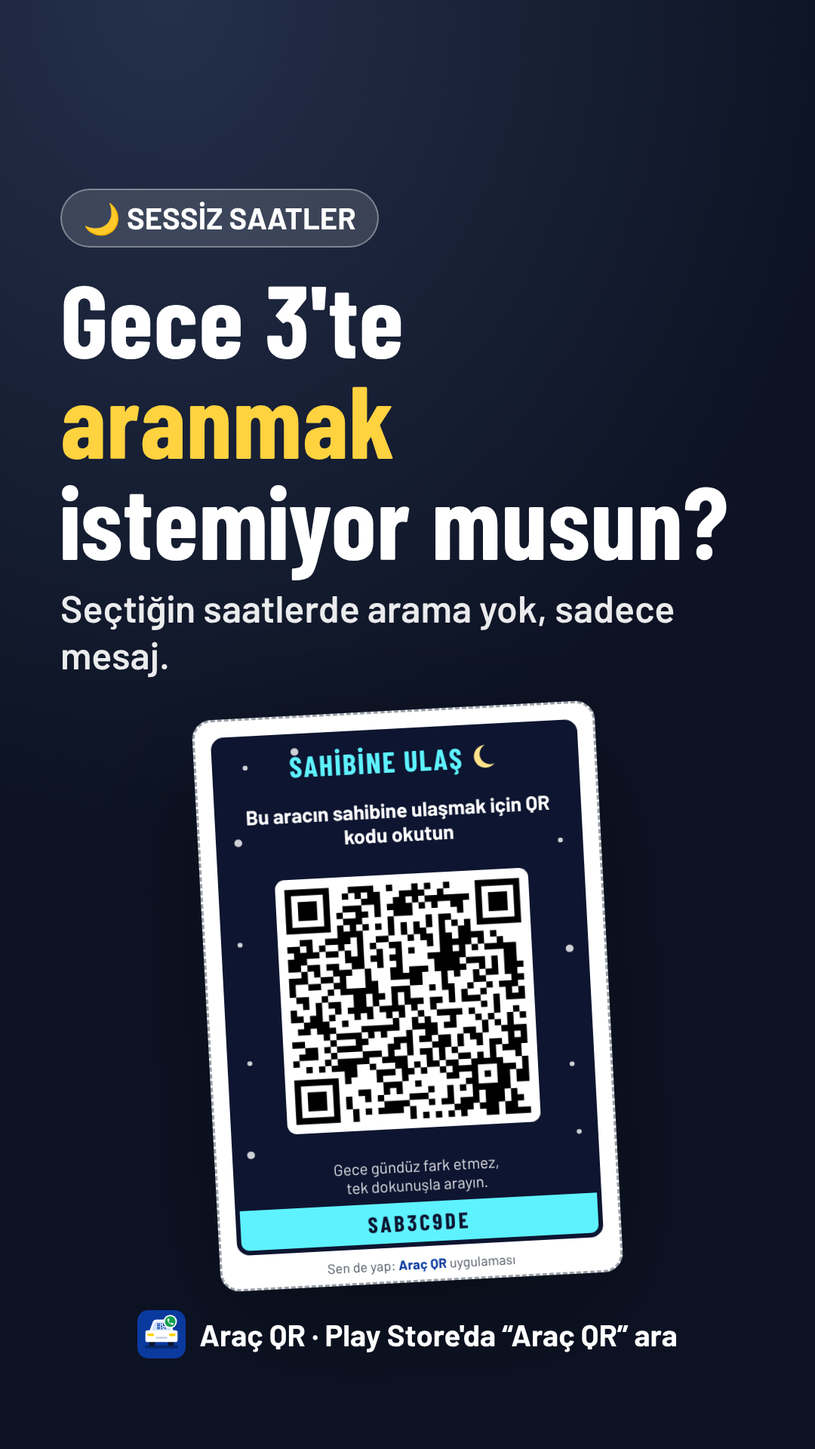
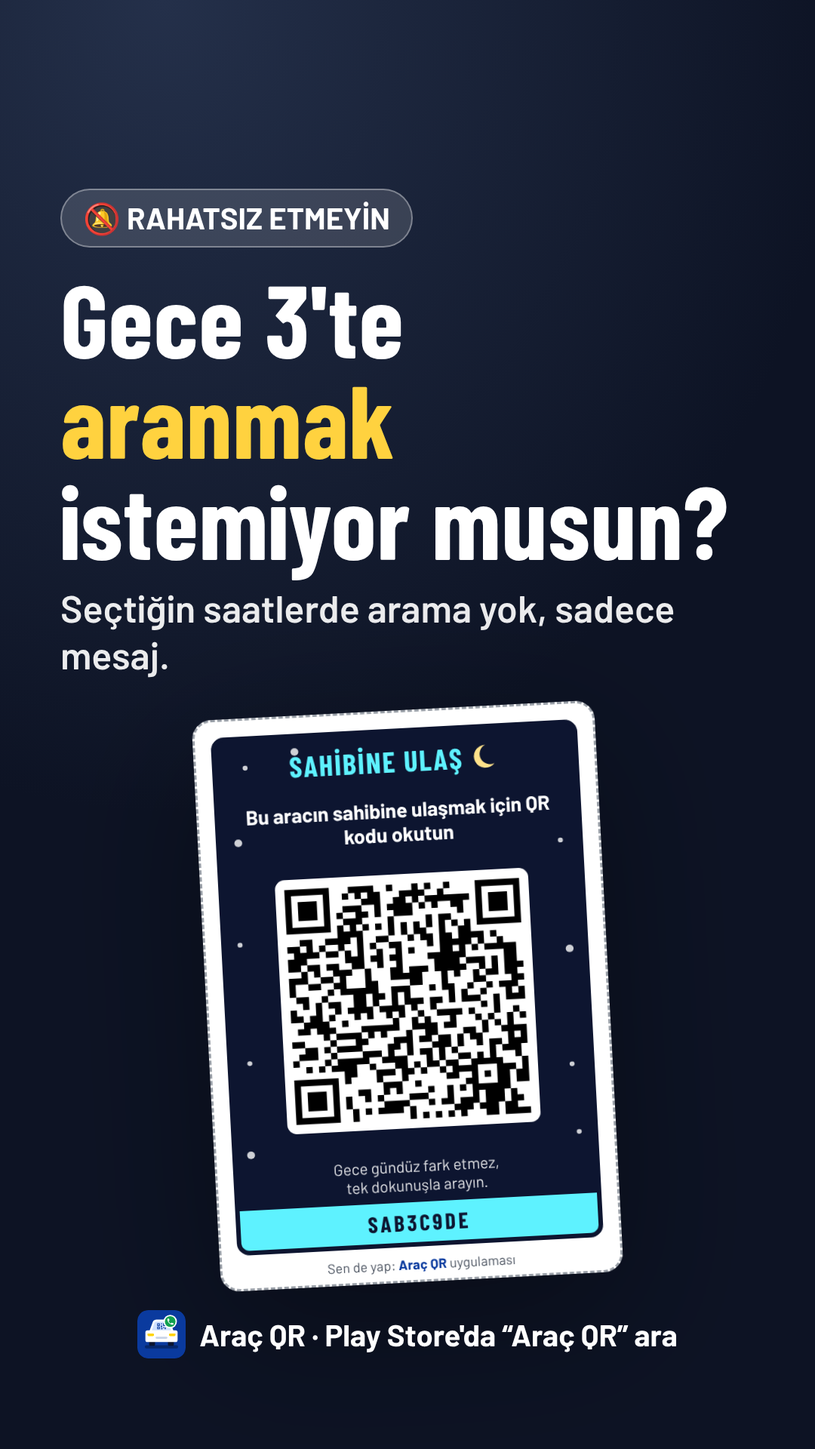
Instagram 1. ay içerik paketi: 6 yeni reels kapağı, 3 kaydırmalı gönderi (16 görsel), 7 hikâye şablonu; 4 haftalık takvim (pazarlama/icerik-takvimi.html) çekim senaryosu ve kopyalanabilir açıklamalarla; Rahatsız Etmeyin adı kapakta da güncellendi
Claude-Session: https://claude.ai/code/session_011ikTtd5WxzjBa6D7cnAviL

Changed region(s): [[0.0917, 0.125, 0.5194, 0.1875]]

diff --git a/pazarlama/icerik-takvimi.html b/pazarlama/icerik-takvimi.html
@@ -1,0 +1,169 @@
+<!doctype html>
+<html lang="tr">
+<head>
+<meta charset="utf-8">
+<meta name="viewport" content="width=device-width,initial-scale=1">
+<meta name="robots" content="noindex">
+<title>Instagram İçerik Takvimi</title>
+<link rel="icon" type="image/svg+xml" href="../app/logo.svg">
+<style>
+@font-face{font-family:"Barlow";font-weight:400;src:url(../app/fonts/barlow-latin-400-normal.woff2) format("woff2")}
+@font-face{font-family:"Barlow";font-weight:400;src:url(../app/fonts/barlow-latin-ext-400-normal.woff2) format("woff2");unicode-range:U+0100-02AF,U+1E00-1EFF}
+@font-face{font-family:"Barlow";font-weight:600;src:url(../app/fonts/barlow-latin-600-normal.woff2) format("woff2")}
+@font-face{font-family:"Barlow";font-weight:600;src:url(../app/fonts/barlow-latin-ext-600-normal.woff2) format("woff2");unicode-range:U+0100-02AF,U+1E00-1EFF}
+@font-face{font-family:"Barlow";font-weight:700;src:url(../app/fonts/barlow-latin-700-normal.woff2) format("woff2")}
+@font-face{font-family:"Barlow";font-weight:700;src:url(../app/fonts/barlow-latin-ext-700-normal.woff2) format("woff2");unicode-range:U+0100-02AF,U+1E00-1EFF}
+@font-face{font-family:"Barlow Condensed";font-weight:700;src:url(../app/fonts/barlow-condensed-latin-700-normal.woff2) format("woff2")}
+@font-face{font-family:"Barlow Condensed";font-weight:700;src:url(../app/fonts/barlow-condensed-latin-ext-700-normal.woff2) format("woff2");unicode-range:U+0100-02AF,U+1E00-1EFF}
+</style>
+<style>
+/* 4 haftalık Instagram takvimi: her paylaşımın görseli, çekim senaryosu ve kopyalanabilir açıklaması. Görseller pazarlama/kit.html → uret.js */
+:root{--bg:#eef1f6;--card:#fff;--fg:#121722;--muted:#566074;--line:#d6dbe5;--band:#0a3a9e;--accent:#f5c518;--ok:#0c7a43;
+  --display:"Barlow Condensed","Arial Narrow",system-ui,sans-serif;--body:"Barlow",system-ui,-apple-system,"Segoe UI",sans-serif}
+@media (prefers-color-scheme:dark){:root:not([data-theme="light"]){--bg:#0e131d;--card:#171e2b;--fg:#e8ecf3;--muted:#9aa4b8;--line:#2a3345;--band:#6f9bff;--ok:#4cc98a;color-scheme:dark}}
+:root[data-theme="dark"]{--bg:#0e131d;--card:#171e2b;--fg:#e8ecf3;--muted:#9aa4b8;--line:#2a3345;--band:#6f9bff;--ok:#4cc98a;color-scheme:dark}
+*{box-sizing:border-box}
+body{margin:0;background:var(--bg);color:var(--fg);font:16px/1.45 var(--body)}
+.wrap{max-width:900px;margin:0 auto;padding:24px 16px 60px;display:flex;flex-direction:column;gap:18px}
+a{color:var(--band)}
+h1{font-family:var(--display);font-size:clamp(32px,6vw,46px);line-height:1;margin:0}
+h2{font-family:var(--display);font-size:30px;margin:18px 0 0;display:flex;align-items:baseline;gap:10px;flex-wrap:wrap}
+h2 small{font-family:var(--body);font-size:15px;color:var(--muted);font-weight:600}
+.lead{color:var(--muted);margin:0}
+.rules{display:grid;grid-template-columns:repeat(auto-fit,minmax(200px,1fr));gap:10px}
+.rules div{background:var(--card);border:1px solid var(--line);border-radius:12px;padding:12px 14px;font-size:15px}
+.rules b{display:block;font-size:17px}
+.post{background:var(--card);border:1px solid var(--line);border-radius:16px;padding:14px;display:grid;grid-template-columns:150px 1fr;gap:16px}
+.thumbs{display:flex;flex-direction:column;gap:6px}
+.thumbs .row{display:flex;gap:4px;flex-wrap:wrap}
+.thumbs img{width:150px;border-radius:10px;display:block;border:1px solid var(--line)}
+.thumbs .row img{width:47px}
+.meta{display:flex;gap:8px;align-items:center;flex-wrap:wrap;font-size:14px;color:var(--muted);font-weight:600}
+.tag{border-radius:999px;padding:2px 10px;font-size:13px;font-weight:700;color:#fff;background:var(--band)}
+.tag.carousel{background:#c13584}.tag.story{background:#0c7a43}
+.post h3{margin:4px 0 6px;font-size:20px;line-height:1.2}
+.scene{margin:0 0 8px;font-size:15px}
+.scene b{color:var(--fg)}
+textarea{width:100%;font:15px/1.4 var(--body);border:1px solid var(--line);border-radius:10px;padding:10px;background:var(--bg);color:var(--fg);resize:vertical}
+.bar{display:flex;gap:8px;margin-top:6px;flex-wrap:wrap}
+button,.btn{font:700 14px var(--body);border:0;border-radius:8px;padding:8px 12px;background:var(--band);color:#fff;cursor:pointer;text-decoration:none}
+.btn.ghost{background:transparent;color:var(--band);border:1px solid var(--line)}
+.stories{display:grid;grid-template-columns:repeat(auto-fill,minmax(150px,1fr));gap:10px}
+.stories figure{margin:0;background:var(--card);border:1px solid var(--line);border-radius:12px;padding:8px;font-size:13px}
+.stories img{width:100%;border-radius:8px;display:block;margin-bottom:6px}
+@media (max-width:560px){.post{grid-template-columns:1fr}.thumbs img{width:100%;max-width:260px}.thumbs .row img{width:56px;max-width:none}}
+</style>
+</head>
+<body>
+<div class="wrap">
+  <header>
+    <p class="lead"><a href="index.html">← Büyüme planı</a></p>
+    <h1>Instagram içerik takvimi · 1. ay</h1>
+    <p class="lead">Büyüme planındaki ritim: haftada 3 reels (Pzt/Çar/Cum akşam 19–21), haftada 1 kaydırmalı gönderi (Cmt), her gün 1–3 hikâye. Her kartta görsel, çekim senaryosu ve kopyalanabilir açıklama var.</p>
+  </header>
+  <div class="rules">
+    <div><b>🎬 Reels</b>7–15 sn. İlk saniyede derdi göster, kapak görselini “Kapak” olarak seç. Popüler bir ses koy.</div>
+    <div><b>🖼 Kaydırmalı</b>Görselleri sırayla yükle (1080×1350). Kayıt ve paylaşım getirir.</div>
+    <div><b>📱 Hikâye</b>Kesikli alana anket / test / bağlantı çıkartmasını koy. Cevaplara DM'den teşekkür et.</div>
+    <div><b>💬 Yorumlar</b>İlk 1 saat her yoruma cevap ver; “bağlantı?” diyene DM'den gönder.</div>
+  </div>
+  <div id="cal"></div>
+</div>
+<script>
+const IMG = n => `instagram/${n}.png`;
+const TAGS = "#otopark #parksorunu #hatalıpark #araba #arabasticker #qrkod #araçqr #şoförlük";
+// Takvim 2 Kasım 2026 Pazartesi başlar; başka bir pazartesiden başlatmak için START'ı değiştirin
+const START = new Date(2026, 10, 2);
+const day = (w, d) => { const x = new Date(START); x.setDate(x.getDate() + w * 7 + d); return x.toLocaleDateString("tr-TR", {day: "numeric", month: "long", weekday: "long"}); };
+const R = "reels", C = "carousel";
+const WEEKS = [
+  {title: "1. hafta: derdi göster", posts: [
+    {d: 0, t: R, img: ["reels-1-hatali-park"], h: "Hatalı mı park ettin?",
+      scene: "Aceleyle park edip markete giriyorsun, arkanda biri sıkışmış → camdaki QR'ı okutuyor → telefonun çalıyor, 1 dakikada gelip aracı çekiyorsun. Ekranda: “Ceza yok, çekici yok, kızgın not yok.”",
+      cap: "Önün kapandığında kimi arayacağını bilemiyor musun? 😤\n\nAraç QR ile camına QR yapıştır; yolunu kapattığın kişi okutsun, seni tek dokunuşla arasın. Numaran camda yazmaz. 📲\n\n👉 Bağlantı profilde"},
+    {d: 2, t: R, img: ["reels-2-numarani-yazma"], h: "Camına numaranı yazma!",
+      scene: "Camda kâğıda yazılmış numara, yakın çekim → biri telefonla fotoğrafını çekiyor → “Bunu herkes görüyor, kaydediyor…” → kâğıdı söküp QR sticker yapıştırıyorsun.",
+      cap: "Camındaki numarayı otoparktaki herkes görüyor, kaydediyor. 📵\n\nAraç QR ile numaran görünmeden sana ulaşsınlar: okutan kişi seni arar ya da hazır mesaj atar.\n\n👉 Bağlantı profilde"},
+    {d: 4, t: R, img: ["reels-3-gece-3te"], h: "Gece 3'te aranmak istemiyor musun?",
+      scene: "Karanlık oda, gece 03:00, telefon çalıyor, uykulu yüz → uygulamada 🔕 Rahatsız Etmeyin'i açıp 23:00–07:00 seçiyorsun → “Bu saatlerde sadece mesaj gelir.”",
+      cap: "Gece 3'te aranmak istemiyorsan 🔕 Rahatsız Etmeyin'i aç.\n\nSeçtiğin saatlerde arama butonu çıkmaz; okutan kişi sana sadece SMS ya da WhatsApp mesajı atabilir. Acil durum mesajları da hazır.\n\n👉 Bağlantı profilde"},
+    {d: 5, t: C, img: ["gonderi-1-kapak", "gonderi-2-adim1", "gonderi-3-adim2", "gonderi-4-adim3", "gonderi-5-indir"], h: "3 adımda araç QR'ın hazır",
+      cap: "3 adımda araç QR'ın hazır 👇\n\n1⃣ Tasarımını seç (29 tasarım, komik sözler)\n2⃣ Numaranı gir: QR'da ve camda yazmaz\n3⃣ Yazdır ya da biz basıp gönderelim\n\nKaydet, sonra lazım olur 🔖\n👉 Bağlantı profilde"},
+  ], stories: ["hikaye-anket-onun-kapandi", "hikaye-baglanti", "hikaye-anket-tasarim"]},
+  {title: "2. hafta: nasıl çalışır?", posts: [
+    {d: 0, t: R, img: ["reels-6-not-birakma"], h: "Not bırakma devri bitti",
+      scene: "Yağmurda silecek altında ıslanmış, okunmaz bir not → biri QR'ı okutup “💡 Farlarınız açık” mesajını seçiyor → sahibinin telefonuna SMS düşüyor.",
+      cap: "Silecek altına not bırakma devri bitti. ☔\n\nQR'ı okut → ara ya da hazır mesaj at: “Farlarınız açık”, “Camınız açık”, “Önümü kapattınız”…\n\n👉 Bağlantı profilde"},
+    {d: 2, t: R, img: ["reels-9-sms-whatsapp"], h: "Aramak istemeyen mesaj atsın",
+      scene: "Ekran kaydı: QR okutuluyor → SMS / WhatsApp seçimi → “Önümü kapattınız”a dokunuluyor → mesaj hazır, Gönder. 7 saniye, hızlandırılmış.",
+      cap: "Herkes aramayı sevmez. 🙈\n\nQR'ı okutan kişi SMS ya da WhatsApp seçer, 6 hazır mesajdan birine dokunur, gönderir. Uygulama indirmesine gerek yok.\n\n👉 Bağlantı profilde"},
+    {d: 4, t: R, img: ["reels-4-ucretsiz-yap"], h: "Kendin yap, evde yazdır",
+      scene: "Ekran kaydı: tasarımları yana kaydırma → söz seçme → yazıcıdan çıkış → makasla kesme → cama yapıştırma. Hızlandırılmış, müzikli.",
+      cap: "Kendi araç QR'ını 1 dakikada yap 🎨\n\n29 tasarım, komik sözler, istediğin ölçü. Evde yazdır ya da su geçirmez vinil sticker'ını biz basıp gönderelim.\n\n👉 Bağlantı profilde"},
+    {d: 5, t: C, img: ["gonderi-a1-kapak", "gonderi-a2-ara", "gonderi-a3-mesaj", "gonderi-a4-rahatsiz", "gonderi-a5-son"], h: "QR'ı okutan kişi ne görür?",
+      cap: "QR'ı okutan kişi ne görür? 👀 Kaydır →\n\n1⃣ “Araç sahibini ara” butonu: numaran ekranda yazmaz\n2⃣ SMS ya da WhatsApp ile 6 hazır mesaj\n3⃣ Rahatsız Etmeyin saatlerinde sadece mesaj\n\nUygulama indirmesine gerek yok, kamerayla okutması yeter.\n👉 Bağlantı profilde"},
+  ], stories: ["hikaye-test-numara", "hikaye-hazir-qr", "hikaye-yorum"]},
+  {title: "3. hafta: yeni özellikler", posts: [
+    {d: 0, t: R, img: ["reels-7-pin-unuttum"], h: "PIN'ini mi unuttun?",
+      scene: "“PIN neydi?” diye kafa kaşıyan biri → uygulamada Profilim'e e-posta yazıyor → telefonuna “QR bilgileriniz” e-postası düşüyor → rahatlamış yüz.",
+      cap: "PIN'ini mi unuttun? Telefonun mu değişti? 🔑\n\nProfilim'e e-postanı ekle: QR kodun, PIN'in ve geri yükleme kodun e-postana gelsin. Unutursan “PIN'imi unuttum” de, yeniden gönderelim.\n\n👉 Bağlantı profilde"},
+    {d: 2, t: R, img: ["reels-8-hazir-qr"], h: "Yazıcıyla uğraşma",
+      scene: "Sıkışan yazıcı, kâğıt buruşuyor 😩 → kesme: kapıya kargo geliyor → zarftan Plaka QR sticker ve PIN kartı çıkıyor → cama yapıştırma.",
+      cap: "Yazıcıyla uğraşmak istemiyor musun? 📦\n\nSu geçirmez Plaka QR sticker + PIN kartı kapına gelsin: 200 TL, kargo dahil. Gelince QR'ı okut, numaranı ve PIN'i gir, bitti.\n\n👉 Talep için: arac.bulqr.com.tr/?talep"},
+    {d: 4, t: R, img: ["reels-10-turist"], h: "Turist de okutabilir",
+      scene: "Yabancı bir turist QR'ı okutuyor → sayfa kendi dilinde (English / العربية / Русский) açılıyor → hazır mesaj gönderiyor → sana Türkçe geliyor.",
+      cap: "Yolunu kapattığın kişi turist mi? Sorun değil. 🌍\n\nQR'ı okutan kişinin sayfası telefonunun diline göre Türkçe, İngilizce, Arapça ya da Rusça açılır; mesaj sana Türkçe gelir.\n\n👉 Bağlantı profilde"},
+    {d: 5, t: C, img: ["gonderi-b1-kapak", "gonderi-b2", "gonderi-b3", "gonderi-b4", "gonderi-b5", "gonderi-b6-cozum"], h: "Camına numara yazmanın 4 riski",
+      cap: "Camına numara yazmanın 4 riski ⚠ Kaydır →\n\n1⃣ Herkes kaydeder\n2⃣ Reklam ve dolandırıcı aramalar\n3⃣ Gece 3'te çalar\n4⃣ Numara değişince yeniden yaz\n\nÇözüm: numara yok, QR var. Arabası olan arkadaşına gönder 📤\n👉 Bağlantı profilde"},
+  ], stories: ["hikaye-pin-yeni", "hikaye-tasma-qr", "hikaye-anket-onun-kapandi"]},
+  {title: "4. hafta: güven ve sosyal kanıt", posts: [
+    {d: 0, t: R, img: ["reels-5-derbi-gunu"], h: "Derbi günü park ettim",
+      scene: "Bu haftayı derbi haftasına denk getirin. Stadyum çevresi kalabalık, araçlarda takım renklerinde sticker'lar → “Renklerini seç, maçı kaçırma, yolunu kapatma.” (Kulüp adı ve logosu kullanmayın.)",
+      cap: "Derbi günü park ettim 😅⚽\n\nTakım renklerinde QR sticker'ını seç; maç çıkışı yolunu kapattığın kişi seni tek dokunuşla arasın.\n\n👉 Bağlantı profilde"},
+    {d: 2, t: R, img: ["reels-11-qr-kapat"], h: "Aracını mı sattın?",
+      scene: "Anahtar teslim sahnesi, “Hayırlı olsun!” → uygulamada “QR açık” anahtarını kapatıyorsun → okutulunca “Bu QR şu an kullanılmıyor” ekranı.",
+      cap: "Aracını sattın, sticker camda kaldı? 🔒\n\nQR'ı uygulamadan tek dokunuşla kapat: okutan kişi numarana ulaşamaz. İstersen kalıcı olarak sil.\n\n👉 Bağlantı profilde"},
+    {d: 4, t: R, img: ["reels-12-ilk-okutma"], h: "QR'ın ilk kez okutuldu!",
+      scene: "Kahve içerken telefona bildirim: “🎉 QR'ınız ilk kez okutuldu” → uygulamada okutma sayacı → konfeti.",
+      cap: "QR'ın ilk kez okutulunca haber verelim 🎉\n\nUygulamada kaç kez okutulduğunu gör; okutan kişinin konumu ya da numarası kaydedilmez.\n\n👉 Bağlantı profilde"},
+    {d: 5, t: C, img: ["gonderi-c1-kapak", "gonderi-c2", "gonderi-c3", "gonderi-c4", "gonderi-c5"], h: "En çok sorulan 4 soru",
+      cap: "En çok sorulan 4 soru 🤔 Kaydır →\n\n• Numaram görünür mü?\n• Numaram değişirse?\n• PIN'imi unutursam?\n• Aracımı satarsam?\n\nBaşka sorun varsa yorumlara yaz, cevaplayalım 👇\n👉 Bağlantı profilde"},
+  ], stories: ["hikaye-hazir-qr", "hikaye-yorum", "hikaye-tasma-qr"]},
+];
+const STORY = {
+  "hikaye-anket-onun-kapandi": "Anket çıkartması: EVET 😡 / HAYIR 😇. Ertesi gün sonucu paylaş.",
+  "hikaye-baglanti": "Bağlantı çıkartması: arac.bulqr.com.tr",
+  "hikaye-anket-tasarim": "Anket: A / B. Kazanan tasarımı haftanın tasarımı yap.",
+  "hikaye-test-numara": "Test çıkartması, doğru cevap: Hayır.",
+  "hikaye-hazir-qr": "Bağlantı: arac.bulqr.com.tr/?talep",
+  "hikaye-yorum": "Gelen yorum / cama yapıştırılmış sticker fotoğrafı (izin alarak).",
+  "hikaye-pin-yeni": "Bağlantı çıkartması: arac.bulqr.com.tr",
+  "hikaye-tasma-qr": "Bağlantı: tasma.bulqr.com.tr. Kardeş ürün tanıtımı.",
+};
+const esc = s => String(s).replace(/[&<>"]/g, c => ({"&": "&amp;", "<": "&lt;", ">": "&gt;", '"': "&quot;"}[c]));
+document.getElementById("cal").innerHTML = WEEKS.map((w, wi) => `
+  <h2>${esc(w.title)} <small>${day(wi, 0)} – ${day(wi, 6)}</small></h2>
+  ${w.posts.map((p, pi) => { const id = `c${wi}${pi}`, text = p.cap + "\n\n" + TAGS; return `
+    <div class="post">
+      <div class="thumbs"><a href="${IMG(p.img[0])}" target="_blank"><img src="${IMG(p.img[0])}" alt="" loading="lazy"></a>
+        ${p.img.length > 1 ? `<div class="row">${p.img.slice(1).map(n => `<a href="${IMG(n)}" target="_blank"><img src="${IMG(n)}" alt="" loading="lazy"></a>`).join("")}</div>` : ""}</div>
+      <div>
+        <div class="meta"><span class="tag ${p.t}">${p.t === R ? "🎬 Reels" : `🖼 Kaydırmalı · ${p.img.length} görsel`}</span>${day(wi, p.d)} · 19:00–21:00</div>
+        <h3>${esc(p.h)}</h3>
+        ${p.scene ? `<p class="scene"><b>Çekim:</b> ${esc(p.scene)}</p>` : ""}
+        <textarea id="${id}" rows="7" readonly>${esc(text)}</textarea>
+        <div class="bar"><button type="button" data-copy="${id}">Açıklamayı kopyala</button>
+          ${p.img.map((n, i) => `<a class="btn ghost" href="${IMG(n)}" download>${p.img.length > 1 ? i + 1 : "Görseli indir"}</a>`).join("")}</div>
+      </div>
+    </div>`; }).join("")}
+  <div class="stories">${w.stories.map(n => `<figure><a href="${IMG(n)}" target="_blank"><img src="${IMG(n)}" alt="" loading="lazy"></a>
+    <span class="tag story">📱 Hikâye</span> ${esc(STORY[n] || "")}</figure>`).join("")}</div>`).join("");
+document.addEventListener("click", async ev => {
+  const b = ev.target.closest("[data-copy]"); if (!b) return;
+  const ta = document.getElementById(b.dataset.copy);
+  try { await navigator.clipboard.writeText(ta.value); } catch (e) { ta.select(); document.execCommand("copy"); }
+  b.textContent = "Kopyalandı ✓"; setTimeout(() => { b.textContent = "Açıklamayı kopyala"; }, 1500);
+});
+</script>
+</body>
+</html>

diff --git a/pazarlama/kit.html b/pazarlama/kit.html
@@ -38,6 +38,17 @@ body{margin:0;background:#888;display:flex;flex-wrap:wrap;gap:40px;padding:40px;
 .hl .ring{width:640px;height:640px;border-radius:50%;background:#fff;display:flex;flex-direction:column;align-items:center;justify-content:center;gap:10px;color:#0a3a9e}
 .hl .ring .ic{font-size:250px;line-height:1}
 .hl .ring .t{font-family:"Barlow Condensed",sans-serif;font-weight:700;font-size:92px;letter-spacing:.02em}
+.shot{position:relative;background:#111;border-radius:64px;padding:18px;box-shadow:0 40px 80px rgba(0,0,0,.45)}
+.shot img{display:block;border-radius:48px;width:100%;height:100%;object-fit:cover;object-position:top}
+.card{background:#fff;color:#111418;border-radius:36px;padding:34px 38px;box-shadow:0 20px 50px rgba(0,0,0,.25)}
+.qa{display:flex;flex-direction:column;gap:22px}
+.msgs{display:grid;grid-template-columns:1fr 1fr;gap:22px;width:860px}
+.msgs div{background:#fff;color:#111418;border-radius:28px;padding:26px 18px;text-align:center;font-weight:700;font-size:40px;line-height:1.15}
+.msgs div i{display:block;font-style:normal;font-size:72px;margin-bottom:8px}
+.pollbox{position:absolute;left:120px;right:120px;border:5px dashed rgba(255,255,255,.7);border-radius:30px;display:flex;align-items:center;justify-content:center;font-size:42px;font-weight:700;text-align:center}
+.yellow .pollbox{border-color:rgba(10,58,158,.6);color:#0a3a9e}
+.photo{border-radius:44px;overflow:hidden;box-shadow:0 30px 70px rgba(0,0,0,.4)}
+.photo img{display:block;width:100%;height:100%;object-fit:cover}
 .num{display:inline-flex;align-items:center;justify-content:center;width:110px;height:110px;border-radius:50%;background:#ffd23f;color:#0a3a9e;font-family:"Barlow Condensed",sans-serif;font-weight:700;font-size:72px;flex:none}
 </style>
 </head>
@@ -71,7 +82,7 @@ add("reels-2-numarani-yazma", 1080, 1920, "yellow", frame(`
   st("plaka", "74x105", null, "SAB3C9DE", "transform:rotate(3deg)", 2.5)) + brand(120, true));
 
 add("reels-3-gece-3te", 1080, 1920, "dark", frame(`
-    <span class="chip" style="font-size:40px;padding:12px 28px">🌙 SESSİZ SAATLER</span>
+    <span class="chip" style="font-size:40px;padding:12px 28px">🔕 RAHATSIZ ETMEYİN</span>
     <h1 class="h" style="font-size:136px;margin-top:26px">Gece 3'te <span class="mark">aranmak</span> istemiyor musun?</h1>
     <p class="p" style="font-size:50px;margin-top:20px;opacity:.92">Seçtiğin saatlerde arama yok, sadece mesaj.</p>`,
   st("gece", "74x105", null, "SAB3C9DE", "transform:rotate(-3deg)", 2.3)) + brand(120));
@@ -127,6 +138,131 @@ add("hikaye-baglanti", 1080, 1920, "blue", frame(`<div style="text-align:center"
   st("ozur", "74x105", null, "SAB3C9DE", "", 2.2), 250, 480) + `
   <div style="position:absolute;left:140px;right:140px;bottom:270px;height:150px;border:5px dashed rgba(255,255,255,.7);border-radius:30px;display:flex;align-items:center;justify-content:center;font-size:44px;font-weight:700">👆 Bağlantı çıkartmasını buraya koy</div>`);
 
+
+// ================================================================ AY 1 İÇERİK PAKETİ (pazarlama/icerik-takvimi.html)
+const shot = (src, w = 470) => `<div class="shot" style="width:${w}px;height:${Math.round(w * 1920 / 1080)}px"><img src="${src}" alt=""></div>`;
+const S5 = "../android/store/screen-5-okutan.png", S6 = "../android/store/screen-6-sessiz.png", S8 = "../android/store/screen-8-pin.png", S4 = "../android/store/screen-4-qr.png";
+
+// ---------------- Yeni reels kapakları
+add("reels-7-pin-unuttum", 1080, 1920, "blue", frame(`
+    <span class="pill" style="font-size:40px;padding:12px 30px">🔑 YENİ</span>
+    <h1 class="h" style="font-size:146px;margin-top:30px">PIN'ini mi <span class="mark">unuttun?</span></h1>
+    <p class="p" style="font-size:52px;margin-top:22px">E-postanı ekle, QR bilgilerin hep yanında olsun.</p>`,
+  shot(S8, 520)) + brand(120));
+
+add("reels-8-hazir-qr", 1080, 1920, "yellow", frame(`
+    <span class="pill" style="font-size:40px;padding:12px 30px">📦 KAPINA GELSİN</span>
+    <h1 class="h" style="font-size:146px;margin-top:30px">Yazıcıyla <span class="mark">uğraşma.</span></h1>
+    <p class="p" style="font-size:52px;margin-top:22px">Su geçirmez Plaka QR sticker + PIN kartı: <b>200 TL</b>.</p>`,
+  st("plaka", "74x105", null, "SAB3C9DE", "transform:rotate(-4deg)", 2.5)) + brand(120, true));
+
+add("reels-9-sms-whatsapp", 1080, 1920, "dark", frame(`
+    <span class="chip" style="font-size:40px;padding:12px 28px">💬 SMS · WHATSAPP</span>
+    <h1 class="h" style="font-size:140px;margin-top:26px">Aramak istemeyen <span class="mark">mesaj atsın.</span></h1>
+    <p class="p" style="font-size:50px;margin-top:20px;opacity:.92">6 hazır mesaj, tek dokunuş.</p>`,
+  shot(S5, 520)) + brand(120));
+
+add("reels-10-turist", 1080, 1920, "blue", frame(`
+    <span class="pill" style="font-size:40px;padding:12px 30px">🌍 4 DİL</span>
+    <h1 class="h" style="font-size:140px;margin-top:30px">Turist de <span class="mark">okutabilir.</span></h1>
+    <p class="p" style="font-size:50px;margin-top:22px">Türkçe · English · العربية · Русский. Mesaj sana Türkçe gelir.</p>`,
+  st("klasik", "74x105", null, "SAB3C9DE", "transform:rotate(4deg)", 2.5)) + brand(120));
+
+add("reels-11-qr-kapat", 1080, 1920, "yellow", frame(`
+    <h1 class="h" style="font-size:140px">Aracını mı <span class="mark">sattın?</span></h1>
+    <p class="p" style="font-size:52px;margin-top:22px">QR'ı tek dokunuşla kapat. Kimse numarana ulaşamaz. 🔒</p>`,
+  shot(S4, 520)) + brand(120, true));
+
+add("reels-12-ilk-okutma", 1080, 1920, "dark", frame(`
+    <span class="chip" style="font-size:40px;padding:12px 28px">🎉 İLK OKUTMA</span>
+    <h1 class="h" style="font-size:140px;margin-top:26px">QR'ın ilk kez <span class="mark">okutuldu!</span></h1>
+    <p class="p" style="font-size:50px;margin-top:20px;opacity:.92">Bildirim gelir, kaç kez okutulduğunu görürsün.</p>`,
+  st("roket", "74x105", null, "SAB3C9DE", "transform:rotate(-3deg)", 2.4)) + brand(120));
+
+// ---------------- Kaydırmalı gönderi A: Okutan kişi ne görür? (1080x1350)
+add("gonderi-a1-kapak", 1080, 1350, "blue", frame(`
+    <span class="pill" style="font-size:36px;padding:10px 26px">KAYDIR →</span>
+    <h1 class="h" style="font-size:118px;margin-top:24px">QR'ı okutan kişi <span class="mark">ne görür?</span></h1>`,
+  st("klasik", "60x90", null, "SAB3C9DE", "transform:rotate(-5deg)", 2.2), 90, 140) + brand(50));
+add("gonderi-a2-ara", 1080, 1350, "yellow", frame(`
+    <div style="display:flex;gap:30px;align-items:center"><span class="num">1</span><h1 class="h" style="font-size:92px">Tek dokunuşla arar</h1></div>
+    <p class="p" style="font-size:42px;margin-top:20px">Numaran ekranda yazmaz. Uygulama indirmesine gerek yok.</p>`, shot(S5, 420), 90, 140) + brand(50, true));
+add("gonderi-a3-mesaj", 1080, 1350, "blue", frame(`
+    <div style="display:flex;gap:30px;align-items:center"><span class="num">2</span><h1 class="h" style="font-size:92px">Ya da mesaj atar</h1></div>
+    <p class="p" style="font-size:42px;margin-top:20px">SMS ya da WhatsApp, hazır mesajlarla:</p>`,
+  `<div class="msgs"><div><i>🚗</i>Önümü kapattınız</div><div><i>💡</i>Farlarınız açık</div><div><i>🪟</i>Camınız açık</div>
+   <div><i>💥</i>Aracınıza çarpıldı</div><div><i>🚓</i>Çekici / ceza</div><div><i>⚠</i>Araçta çocuk / hayvan</div></div>`, 90, 140) + brand(50));
+add("gonderi-a4-rahatsiz", 1080, 1350, "dark", frame(`
+    <div style="display:flex;gap:30px;align-items:center"><span class="num">3</span><h1 class="h" style="font-size:88px">Rahatsız Etmeyin'deysen</h1></div>
+    <p class="p" style="font-size:42px;margin-top:20px">Seçtiğin saatlerde arama butonu çıkmaz, sadece mesaj.</p>`, shot(S6, 420), 90, 140) + brand(50));
+add("gonderi-a5-son", 1080, 1350, "yellow", `
+  <div style="position:absolute;inset:0;display:flex;flex-direction:column;align-items:center;justify-content:center;text-align:center;gap:34px;padding:80px">
+    ${logo(240)}
+    <h1 class="h" style="font-size:112px">Sen de QR'ını yap</h1>
+    <p class="p" style="font-size:48px">Kendi tasarımını yap ya da<br>hazır Plaka QR'ı <b>200 TL</b>'ye kapına getirelim.</p>
+    <span class="pill" style="font-size:42px;padding:16px 40px">Bağlantı profilde 👆</span>
+  </div>`);
+
+// ---------------- Kaydırmalı gönderi B: Camına numara yazmanın 4 riski
+add("gonderi-b1-kapak", 1080, 1350, "yellow", frame(`
+    <span class="pill" style="font-size:36px;padding:10px 26px">KAYDIR →</span>
+    <h1 class="h" style="font-size:118px;margin-top:24px">Camına <span class="strike">numara</span> yazmanın <span class="mark">4 riski</span></h1>`,
+  `<div class="card" style="font-size:96px;font-family:'Barlow Condensed';font-weight:700;transform:rotate(-4deg)">📵 0532 ••• •• ••</div>`, 90, 140) + brand(50, true));
+[["gonderi-b2", "1", "Herkes kaydeder", "Otoparkta yanından geçen herkes numaranı fotoğraflayabilir."],
+ ["gonderi-b3", "2", "Reklam ve dolandırıcı aramalar", "Camdaki numara kolay hedef: spam, sahte kampanya, “aracınız çekildi” tuzakları."],
+ ["gonderi-b4", "3", "Gece 3'te çalar", "Ne zaman aranacağını sen seçemezsin."],
+ ["gonderi-b5", "4", "Numara değişince yeniden yaz", "Kâğıt solar, yazı silinir, her seferinde baştan."]].forEach(([n, no, t, d], i) =>
+  add(n, 1080, 1350, i % 2 ? "yellow" : "blue", `<div class="frame" style="top:150px;bottom:180px;justify-content:center;gap:36px">
+    <span class="num" style="width:150px;height:150px;font-size:100px">${no}</span>
+    <h1 class="h" style="font-size:118px">${t}</h1><p class="p" style="font-size:50px">${d}</p></div>` + brand(50, !!(i % 2))));
+add("gonderi-b6-cozum", 1080, 1350, "dark", frame(`
+    <span class="chip" style="font-size:36px;padding:10px 26px">✅ ÇÖZÜM</span>
+    <h1 class="h" style="font-size:112px;margin-top:24px">Numara yok, <span class="mark">QR var.</span></h1>
+    <p class="p" style="font-size:44px;margin-top:20px">Okutan seni arar ya da mesaj atar; numaran camda yazmaz.</p>`,
+  st("plaka", "60x90", null, "SAB3C9DE", "transform:rotate(4deg)", 2.0), 90, 140) + brand(50));
+
+// ---------------- Kaydırmalı gönderi C: Sık sorulanlar
+add("gonderi-c1-kapak", 1080, 1350, "blue", frame(`
+    <span class="pill" style="font-size:36px;padding:10px 26px">KAYDIR →</span>
+    <h1 class="h" style="font-size:124px;margin-top:24px">En çok <span class="mark">sorulan 4 soru</span></h1>`,
+  `<div style="font-size:300px;line-height:1">🤔</div>`, 90, 140) + brand(50));
+[["gonderi-c2", "Numaram görünür mü?", "Camda ve QR'da yazmaz. Okutan kişi “Araç sahibini ara”ya basar, telefonu arar."],
+ ["gonderi-c3", "Numaram değişirse?", "Uygulamadan PIN'inle değiştir. Sticker aynı kalır, yeniden basmana gerek yok."],
+ ["gonderi-c4", "PIN'imi unutursam?", "Profilim'e e-postanı ekle. “PIN'imi unuttum” de, QR kodun ve PIN'in e-postana gelsin."],
+ ["gonderi-c5", "Aracımı satarsam?", "QR'ı tek dokunuşla kapat ya da kalıcı olarak sil. Kimse numarana ulaşamaz."]].forEach(([n, q, a], i) =>
+  add(n, 1080, 1350, i % 2 ? "blue" : "yellow", `<div class="frame" style="top:150px;bottom:180px;justify-content:center;gap:40px">
+    <h1 class="h" style="font-size:112px">${q}</h1><div class="card" style="font-size:50px;font-weight:600;line-height:1.3">${a}</div></div>` + brand(50, !(i % 2))));
+
+// ---------------- Hikâye şablonları 1080x1920 (anket / test / bağlantı çıkartması kesikli alana konur)
+add("hikaye-anket-onun-kapandi", 1080, 1920, "yellow", `<div class="frame" style="top:300px;bottom:900px;text-align:center;justify-content:center">
+    <h1 class="h" style="font-size:150px">Hiç önün <span class="mark">kapandı mı?</span> 😤</h1></div>
+  <div class="pollbox" style="top:1100px;height:300px">👆 Anket çıkartması<br>EVET 😡 / HAYIR 😇</div>` + brand(120, true));
+add("hikaye-anket-tasarim", 1080, 1920, "blue", `<div class="frame" style="top:200px;bottom:1500px;text-align:center"><h1 class="h" style="font-size:120px">Hangisi <span class="mark">senin tarzın?</span></h1></div>
+  <div style="position:absolute;top:500px;left:0;right:0;display:flex;justify-content:center;gap:40px">
+    <div style="text-align:center">${st("kedi", "60x90", null, "SAB3C9DE", "", 1.5)}<div class="h" style="font-size:80px;margin-top:16px">A</div></div>
+    <div style="text-align:center">${st("gece", "60x90", null, "SAB3C9DE", "", 1.5)}<div class="h" style="font-size:80px;margin-top:16px">B</div></div></div>
+  <div class="pollbox" style="bottom:300px;height:200px">👆 Anket: A / B</div>`);
+add("hikaye-test-numara", 1080, 1920, "dark", `<div class="frame" style="top:300px;bottom:900px;justify-content:center;text-align:center">
+    <span class="chip" style="font-size:40px;padding:12px 28px;align-self:center">🧠 TEST</span>
+    <h1 class="h" style="font-size:136px;margin-top:30px">Camına numara yazmak <span class="mark">güvenli mi?</span></h1></div>
+  <div class="pollbox" style="top:1100px;height:340px">👆 Test çıkartması<br>Evet / Hayır ✅ / Bilmiyorum</div>` + brand(120));
+add("hikaye-pin-yeni", 1080, 1920, "blue", frame(`<div style="text-align:center">
+    <span class="pill" style="font-size:40px;padding:12px 30px">🔑 YENİ ÖZELLİK</span>
+    <h1 class="h" style="font-size:130px;margin-top:26px">PIN'imi <span class="mark">unuttum</span></h1>
+    <p class="p" style="font-size:48px;margin-top:20px">Profilim'e e-postanı ekle, gerisini biz hallederiz.</p></div>`, shot(S8, 470), 250, 480) + `
+  <div class="pollbox" style="bottom:270px;height:150px">👆 Bağlantı çıkartması</div>`);
+add("hikaye-hazir-qr", 1080, 1920, "yellow", frame(`<div style="text-align:center">
+    <h1 class="h" style="font-size:136px">Hazır QR <span class="mark">kapında</span></h1>
+    <p class="p" style="font-size:52px;margin-top:20px">Su geçirmez Plaka sticker + PIN kartı · <b>200 TL</b></p></div>`,
+  st("plaka", "74x105", null, "SAB3C9DE", "transform:rotate(-3deg)", 2.3), 250, 480) + `
+  <div class="pollbox" style="bottom:270px;height:150px">👆 Bağlantı: arac.bulqr.com.tr/?talep</div>`);
+add("hikaye-tasma-qr", 1080, 1920, "dark", `<div class="frame" style="top:220px;bottom:1000px;text-align:center">
+    <span class="chip" style="font-size:40px;padding:12px 28px;align-self:center">🐾 KARDEŞ ÜRÜN</span>
+    <h1 class="h" style="font-size:118px;margin-top:24px">Dostun kaybolursa <span class="mark">sana geri getirsin</span></h1></div>
+  <div class="photo" style="position:absolute;top:880px;left:190px;width:700px;height:700px"><img src="../app/img/tasma-1.jpg" alt=""></div>
+  <div class="pollbox" style="bottom:110px;height:130px;font-size:38px">👆 Bağlantı: tasma.bulqr.com.tr</div>`);
+add("hikaye-yorum", 1080, 1920, "blue", `<div class="frame" style="top:260px;bottom:1300px;text-align:center"><h1 class="h" style="font-size:130px">Sizden <span class="mark">gelenler</span> ⭐</h1></div>
+  <div class="pollbox" style="top:700px;height:820px">📸 Müşteri fotoğrafı / yorum ekran görüntüsü buraya<br><br>(izin alarak)</div>` + brand(120));
 document.getElementById("out").outerHTML = AB.join("");
 // sticker görseli kalan alana sığacak kadar büyür/küçülür (yazıya ve marka satırına binmez)
 function fitAll() {

diff --git a/pazarlama/index.html b/pazarlama/index.html
@@ -89,6 +89,7 @@ h2.sec{font-family:var(--display);font-size:24px;margin:10px 0 0}
     <nav class="nav" aria-label="Plan belgeleri">
       <a href="buyume-plani.html">📄 Planın tamamı</a>
       <a href="Arac-QR-Buyume-Plani.pdf">⬇ PDF</a>
+      <a href="icerik-takvimi.html">🗓 Instagram içerik takvimi</a>
       <a href="#instagram">📸 Instagram görselleri</a>
       <a href="https://github.com/yusufbas34/aracqr/blob/main/android/GOOGLE_PLAY.md">▶ Google Play rehberi</a>
     </nav>
@@ -123,6 +124,35 @@ h2.sec{font-family:var(--display);font-size:24px;margin:10px 0 0}
       <a href="instagram/gonderi-4-adim3.png"><img src="instagram/gonderi-4-adim3.png" alt="gonderi-4-adim3" loading="lazy" class="sq"><span>gonderi-4-adim3</span></a>
       <a href="instagram/gonderi-5-indir.png"><img src="instagram/gonderi-5-indir.png" alt="gonderi-5-indir" loading="lazy" class="sq"><span>gonderi-5-indir</span></a>
       <a href="instagram/hikaye-baglanti.png"><img src="instagram/hikaye-baglanti.png" alt="hikaye-baglanti" loading="lazy"><span>hikaye-baglanti</span></a>
+      <a href="instagram/gonderi-a1-kapak.png"><img src="instagram/gonderi-a1-kapak.png" alt="gonderi-a1-kapak" loading="lazy" class="sq"><span>gonderi-a1-kapak</span></a>
+      <a href="instagram/gonderi-a2-ara.png"><img src="instagram/gonderi-a2-ara.png" alt="gonderi-a2-ara" loading="lazy" class="sq"><span>gonderi-a2-ara</span></a>
+      <a href="instagram/gonderi-a3-mesaj.png"><img src="instagram/gonderi-a3-mesaj.png" alt="gonderi-a3-mesaj" loading="lazy" class="sq"><span>gonderi-a3-mesaj</span></a>
+      <a href="instagram/gonderi-a4-rahatsiz.png"><img src="instagram/gonderi-a4-rahatsiz.png" alt="gonderi-a4-rahatsiz" loading="lazy" class="sq"><span>gonderi-a4-rahatsiz</span></a>
+      <a href="instagram/gonderi-a5-son.png"><img src="instagram/gonderi-a5-son.png" alt="gonderi-a5-son" loading="lazy" class="sq"><span>gonderi-a5-son</span></a>
+      <a href="instagram/gonderi-b1-kapak.png"><img src="instagram/gonderi-b1-kapak.png" alt="gonderi-b1-kapak" loading="lazy" class="sq"><span>gonderi-b1-kapak</span></a>
+      <a href="instagram/gonderi-b2.png"><img src="instagram/gonderi-b2.png" alt="gonderi-b2" loading="lazy" class="sq"><span>gonderi-b2</span></a>
+      <a href="instagram/gonderi-b3.png"><img src="instagram/gonderi-b3.png" alt="gonderi-b3" loading="lazy" class="sq"><span>gonderi-b3</span></a>
+      <a href="instagram/gonderi-b4.png"><img src="instagram/gonderi-b4.png" alt="gonderi-b4" loading="lazy" class="sq"><span>gonderi-b4</span></a>
+      <a href="instagram/gonderi-b5.png"><img src="instagram/gonderi-b5.png" alt="gonderi-b5" loading="lazy" class="sq"><span>gonderi-b5</span></a>
+      <a href="instagram/gonderi-b6-cozum.png"><img src="instagram/gonderi-b6-cozum.png" alt="gonderi-b6-cozum" loading="lazy" class="sq"><span>gonderi-b6-cozum</span></a>
+      <a href="instagram/gonderi-c1-kapak.png"><img src="instagram/gonderi-c1-kapak.png" alt="gonderi-c1-kapak" loading="lazy" class="sq"><span>gonderi-c1-kapak</span></a>
+      <a href="instagram/gonderi-c2.png"><img src="instagram/gonderi-c2.png" alt="gonderi-c2" loading="lazy" class="sq"><span>gonderi-c2</span></a>
+      <a href="instagram/gonderi-c3.png"><img src="instagram/gonderi-c3.png" alt="gonderi-c3" loading="lazy" class="sq"><span>gonderi-c3</span></a>
+      <a href="instagram/gonderi-c4.png"><img src="instagram/gonderi-c4.png" alt="gonderi-c4" loading="lazy" class="sq"><span>gonderi-c4</span></a>
+      <a href="instagram/gonderi-c5.png"><img src="instagram/gonderi-c5.png" alt="gonderi-c5" loading="lazy" class="sq"><span>gonderi-c5</span></a>
+      <a href="instagram/hikaye-anket-onun-kapandi.png"><img src="instagram/hikaye-anket-onun-kapandi.png" alt="hikaye-anket-onun-kapandi" loading="lazy"><span>hikaye-anket-onun-kapandi</span></a>
+      <a href="instagram/hikaye-anket-tasarim.png"><img src="instagram/hikaye-anket-tasarim.png" alt="hikaye-anket-tasarim" loading="lazy"><span>hikaye-anket-tasarim</span></a>
+      <a href="instagram/hikaye-hazir-qr.png"><img src="instagram/hikaye-hazir-qr.png" alt="hikaye-hazir-qr" loading="lazy"><span>hikaye-hazir-qr</span></a>
+      <a href="instagram/hikaye-pin-yeni.png"><img src="instagram/hikaye-pin-yeni.png" alt="hikaye-pin-yeni" loading="lazy"><span>hikaye-pin-yeni</span></a>
+      <a href="instagram/hikaye-tasma-qr.png"><img src="instagram/hikaye-tasma-qr.png" alt="hikaye-tasma-qr" loading="lazy"><span>hikaye-tasma-qr</span></a>
+      <a href="instagram/hikaye-test-numara.png"><img src="instagram/hikaye-test-numara.png" alt="hikaye-test-numara" loading="lazy"><span>hikaye-test-numara</span></a>
+      <a href="instagram/hikaye-yorum.png"><img src="instagram/hikaye-yorum.png" alt="hikaye-yorum" loading="lazy"><span>hikaye-yorum</span></a>
+      <a href="instagram/reels-10-turist.png"><img src="instagram/reels-10-turist.png" alt="reels-10-turist" loading="lazy"><span>reels-10-turist</span></a>
+      <a href="instagram/reels-11-qr-kapat.png"><img src="instagram/reels-11-qr-kapat.png" alt="reels-11-qr-kapat" loading="lazy"><span>reels-11-qr-kapat</span></a>
+      <a href="instagram/reels-12-ilk-okutma.png"><img src="instagram/reels-12-ilk-okutma.png" alt="reels-12-ilk-okutma" loading="lazy"><span>reels-12-ilk-okutma</span></a>
+      <a href="instagram/reels-7-pin-unuttum.png"><img src="instagram/reels-7-pin-unuttum.png" alt="reels-7-pin-unuttum" loading="lazy"><span>reels-7-pin-unuttum</span></a>
+      <a href="instagram/reels-8-hazir-qr.png"><img src="instagram/reels-8-hazir-qr.png" alt="reels-8-hazir-qr" loading="lazy"><span>reels-8-hazir-qr</span></a>
+      <a href="instagram/reels-9-sms-whatsapp.png"><img src="instagram/reels-9-sms-whatsapp.png" alt="reels-9-sms-whatsapp" loading="lazy"><span>reels-9-sms-whatsapp</span></a>
   </div>
 
   <p class="foot">Kaynak: Araç QR Hızlı Büyüme Planı. Senaryolar, rakip tablosu ve riskler “Planın tamamı” sayfasında.</p>
